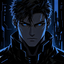
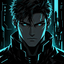
Add a blue palette, and the face that goes with it
Cubeship's own is cyan on a near-black with a blue cast, so a blue
accent on those same surfaces would have been the default with the
accent nudged — two entries in the picker that are hard to tell apart
is worse than one fewer. The surfaces go properly navy, which is what
every other palette here does with its own hue, and the accent is far
enough from #2de2e6 to be a different answer rather than a variation
on the same one.

The face that was called cyan was the blue one; it is named blue now
and cyan is a face drawn in cyan. That the two lists line up is a
coincidence worth keeping and not a rule — nothing requires a palette
to have a face, and a test saying so would fail for something that is
not a fault.

diff --git a/web/src/app/globals.css b/web/src/app/globals.css
@@ -263,6 +263,40 @@
   --magenta: #ff6bd6;
 }
 
+/* The one palette that had to be pushed away from the default rather
+   than simply chosen. Cubeship's own is cyan on a near-black with a
+   blue cast, so a blue accent laid on those same surfaces would have
+   been the default with the accent nudged — two entries in the picker
+   that are hard to tell apart is worse than six. So the surfaces go
+   properly navy, which is what every other palette here does with its
+   own hue, and the accent is an azure far enough from #2de2e6 to be a
+   different answer to the same question. */
+:root[data-theme="blue"] {
+  --background: #03060f;
+  --card: #070d1a;
+  --popover: #0a1120;
+  --secondary: #0d1626;
+  --muted: #0d1626;
+  --accent: #142036;
+
+  --foreground: #dbe4f7;
+  --card-foreground: #dbe4f7;
+  --popover-foreground: #dbe4f7;
+  --secondary-foreground: #dbe4f7;
+  --accent-foreground: #dbe4f7;
+  --muted-foreground: #8494b8;
+  --subtle-foreground: #53608a;
+
+  --border: #182740;
+  --border-strong: #26395c;
+  --input: #1e3050;
+
+  --primary: #4d8dff;
+  --primary-foreground: #030d20;
+  --ring: #4d8dff;
+  --magenta: #2de2e6;
+}
+
 @theme inline {
   --color-background: var(--background);
   --color-foreground: var(--foreground);

diff --git a/web/src/components/appearance.tsx b/web/src/components/appearance.tsx
@@ -20,13 +20,14 @@ const PALETTES: Record<string, { label: string; note: string; bg: string; fg: st
   orange: { label: "Orange", note: "", bg: "#0a0603", fg: "#ff9d2e" },
   pink: { label: "Pink", note: "", bg: "#0a0409", fg: "#ff5cb8" },
   purple: { label: "Purple", note: "", bg: "#07050e", fg: "#a97bff" },
+  blue: { label: "Blue", note: "Blue on navy", bg: "#03060f", fg: "#4d8dff" },
 };
 
 // Appearance is the palette this person sees the dashboard in.
 //
 // **The swatches are painted from literal colours, not from the CSS
 // variables**, and they have to be: every one of these is drawn while a
-// different palette is live, and a variable would make all seven the
+// different palette is live, and a variable would make every one of them the
 // same colour as the current one.
 export function Appearance() {
   const me = useSession();

diff --git a/web/src/lib/mock/db.ts b/web/src/lib/mock/db.ts
@@ -45,7 +45,7 @@ export const db = {
     username: "lucas",
     role: "admin" as const,
     has_password: true,
-    themes: ["cyan", "mono", "hacker", "red", "orange", "pink", "purple"],
+    themes: ["cyan", "mono", "hacker", "red", "orange", "pink", "purple", "blue"],
     display_name: "Lucas",
     email: "lucas@example.com",
     avatar: "cyan",

diff --git a/internal/user/user.go b/internal/user/user.go
@@ -76,12 +76,19 @@ type User struct {
 // nobody can choose and nobody knows is missing. See avatars_test.go.
 // `scripts/profiles.sh` prepares the files and prints this line.
 //
-// **They are the palettes' own names**, because they are the same seven
-// colours: somebody on the red theme picking the red face is the whole
-// of why there are seven. A second vocabulary for one set of colours
-// would be one to keep in step by hand, and there is nothing to gain by
-// calling the same red something else here.
-var Avatars = []string{"cyan", "hacker", "mono", "orange", "pink", "purple", "red"}
+// **They are the palettes' own names**, because they are drawn in the
+// same colours: somebody on the red theme picking the red face is the
+// whole of why there is more than one. A second vocabulary for one set
+// of colours would be one to keep in step by hand, and there is nothing
+// to gain by calling the same red something else here.
+//
+// **Sharing the vocabulary is not the same as being the same list.**
+// Nothing requires a palette to have a face or a face to have a
+// palette: they are read for different questions, and a face missing
+// for a palette would cost somebody on it a choice rather than break a
+// screen. They happen to line up, and no test says they must — one
+// would fail for something that is not a fault.
+var Avatars = []string{"blue", "cyan", "hacker", "mono", "orange", "pink", "purple", "red"}
 
 // ErrUnknownAvatar is a face this instance does not ship.
 var ErrUnknownAvatar = errors.New("no avatar by that name")
@@ -150,7 +157,7 @@ func ValidEmail(s string) bool {
 // daemon will accept, and two lists would be one to disagree with: a
 // browser sending a name this refuses is a preference that saves and
 // then is not there.
-var Themes = []string{"cyan", "mono", "hacker", "red", "orange", "pink", "purple"}
+var Themes = []string{"cyan", "mono", "hacker", "red", "orange", "pink", "purple", "blue"}
 
 // ErrUnknownTheme is a palette this instance does not have.
 var ErrUnknownTheme = errors.New("no theme by that name")

diff --git a/docs/design/dashboard.md b/docs/design/dashboard.md
@@ -718,7 +718,7 @@ The dashboard is dark and only dark: `<html>` carries `dark` rather than
 following the system, because the shadcn primitives carry `dark:` rules
 and a visitor whose OS is light would otherwise get half of them.
 
-**There are seven palettes and every one of them is dark.** That is a
+**There are eight palettes and every one of them is dark.** That is a
 decision rather than an omission: this is a console for a machine, read
 beside a terminal, and a light one would be the only screen on that desk
 that is. A palette changes **colour and nothing else** — the layout, the
@@ -741,6 +741,20 @@ could not disagree with it. And there is no username on
 preference.
 
 The swatches on that screen are painted from **literal colours**, not
-from the CSS variables, and they have to be: all seven are drawn while
-one palette is live, and a variable would make every one of them the
-colour of the current one.
+from the CSS variables, and they have to be: every one of them is drawn
+while a different palette is live, and a variable would make all of them
+the colour of the current one.
+
+**`blue` is the one that had to be pushed away from the default rather
+than simply chosen.** Cubeship's own is cyan on a near-black with a blue
+cast, so a blue accent on those same surfaces would have been the
+default with the accent nudged — and two entries in the picker that are
+hard to tell apart is worse than not offering the second. Its surfaces
+are properly navy, which is what every other palette here does with its
+own hue.
+
+**The account faces are named after these** — see `user.Avatars` — and
+they share a vocabulary rather than a list. Nothing requires a palette
+to have a face or a face to have a palette: they happen to line up, and
+no test says they must, because one would fail for something that is
+not a fault.
